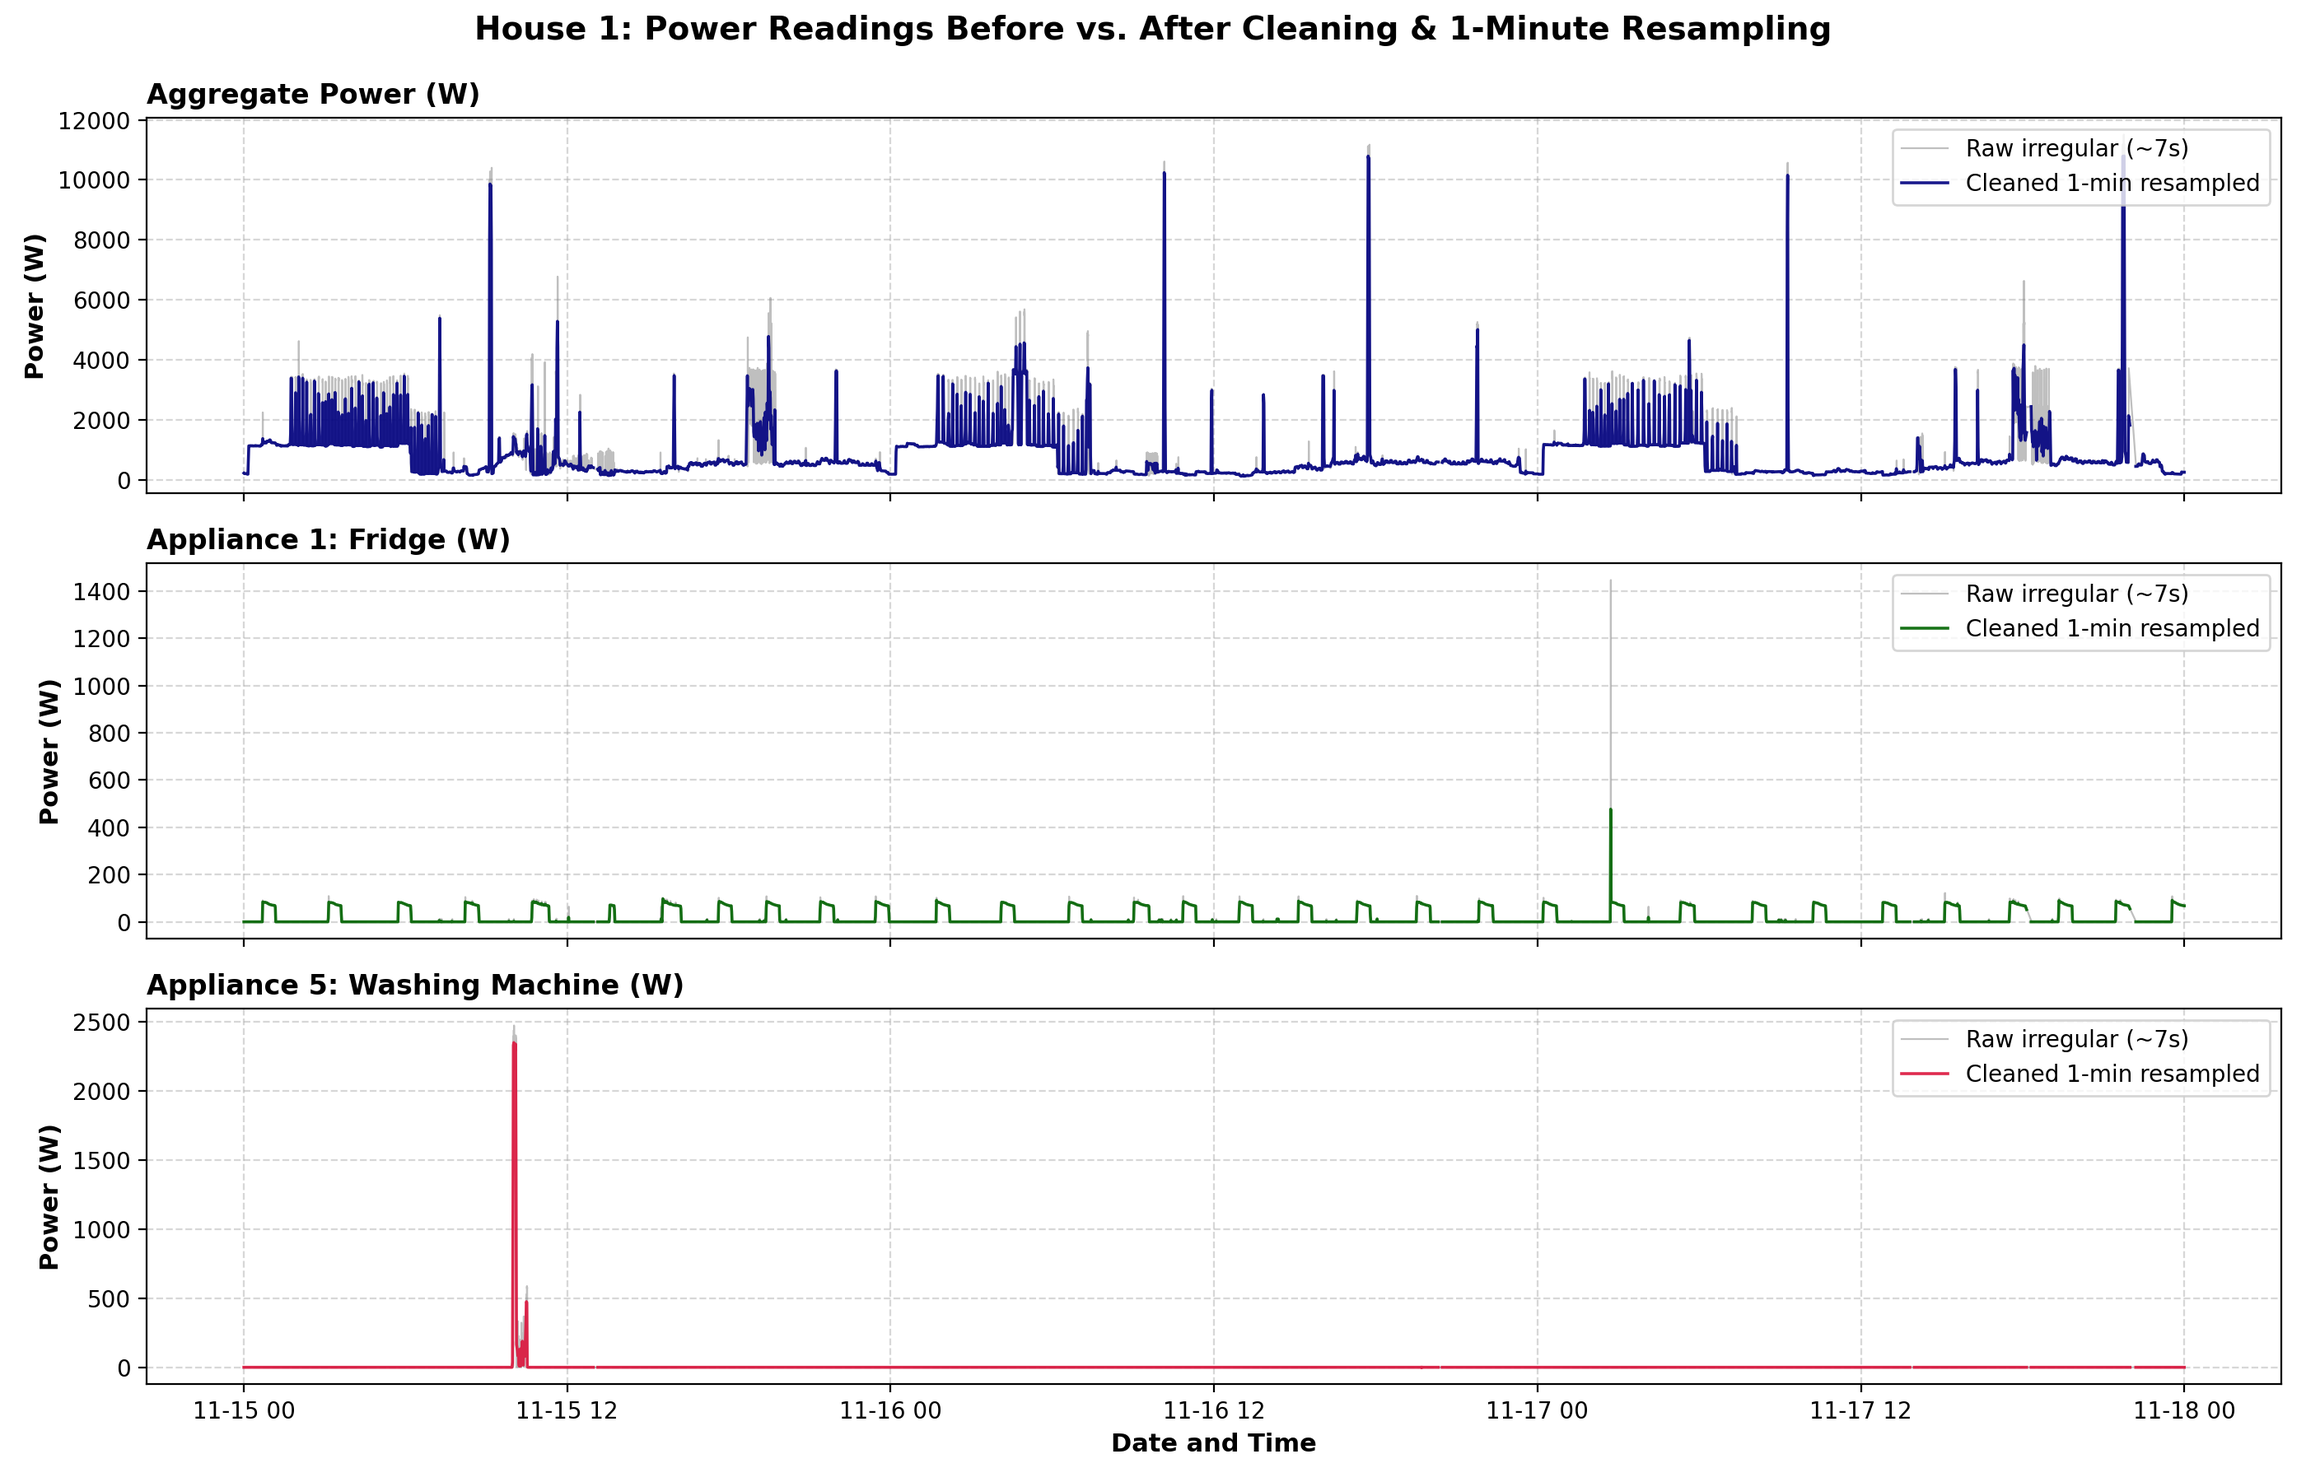
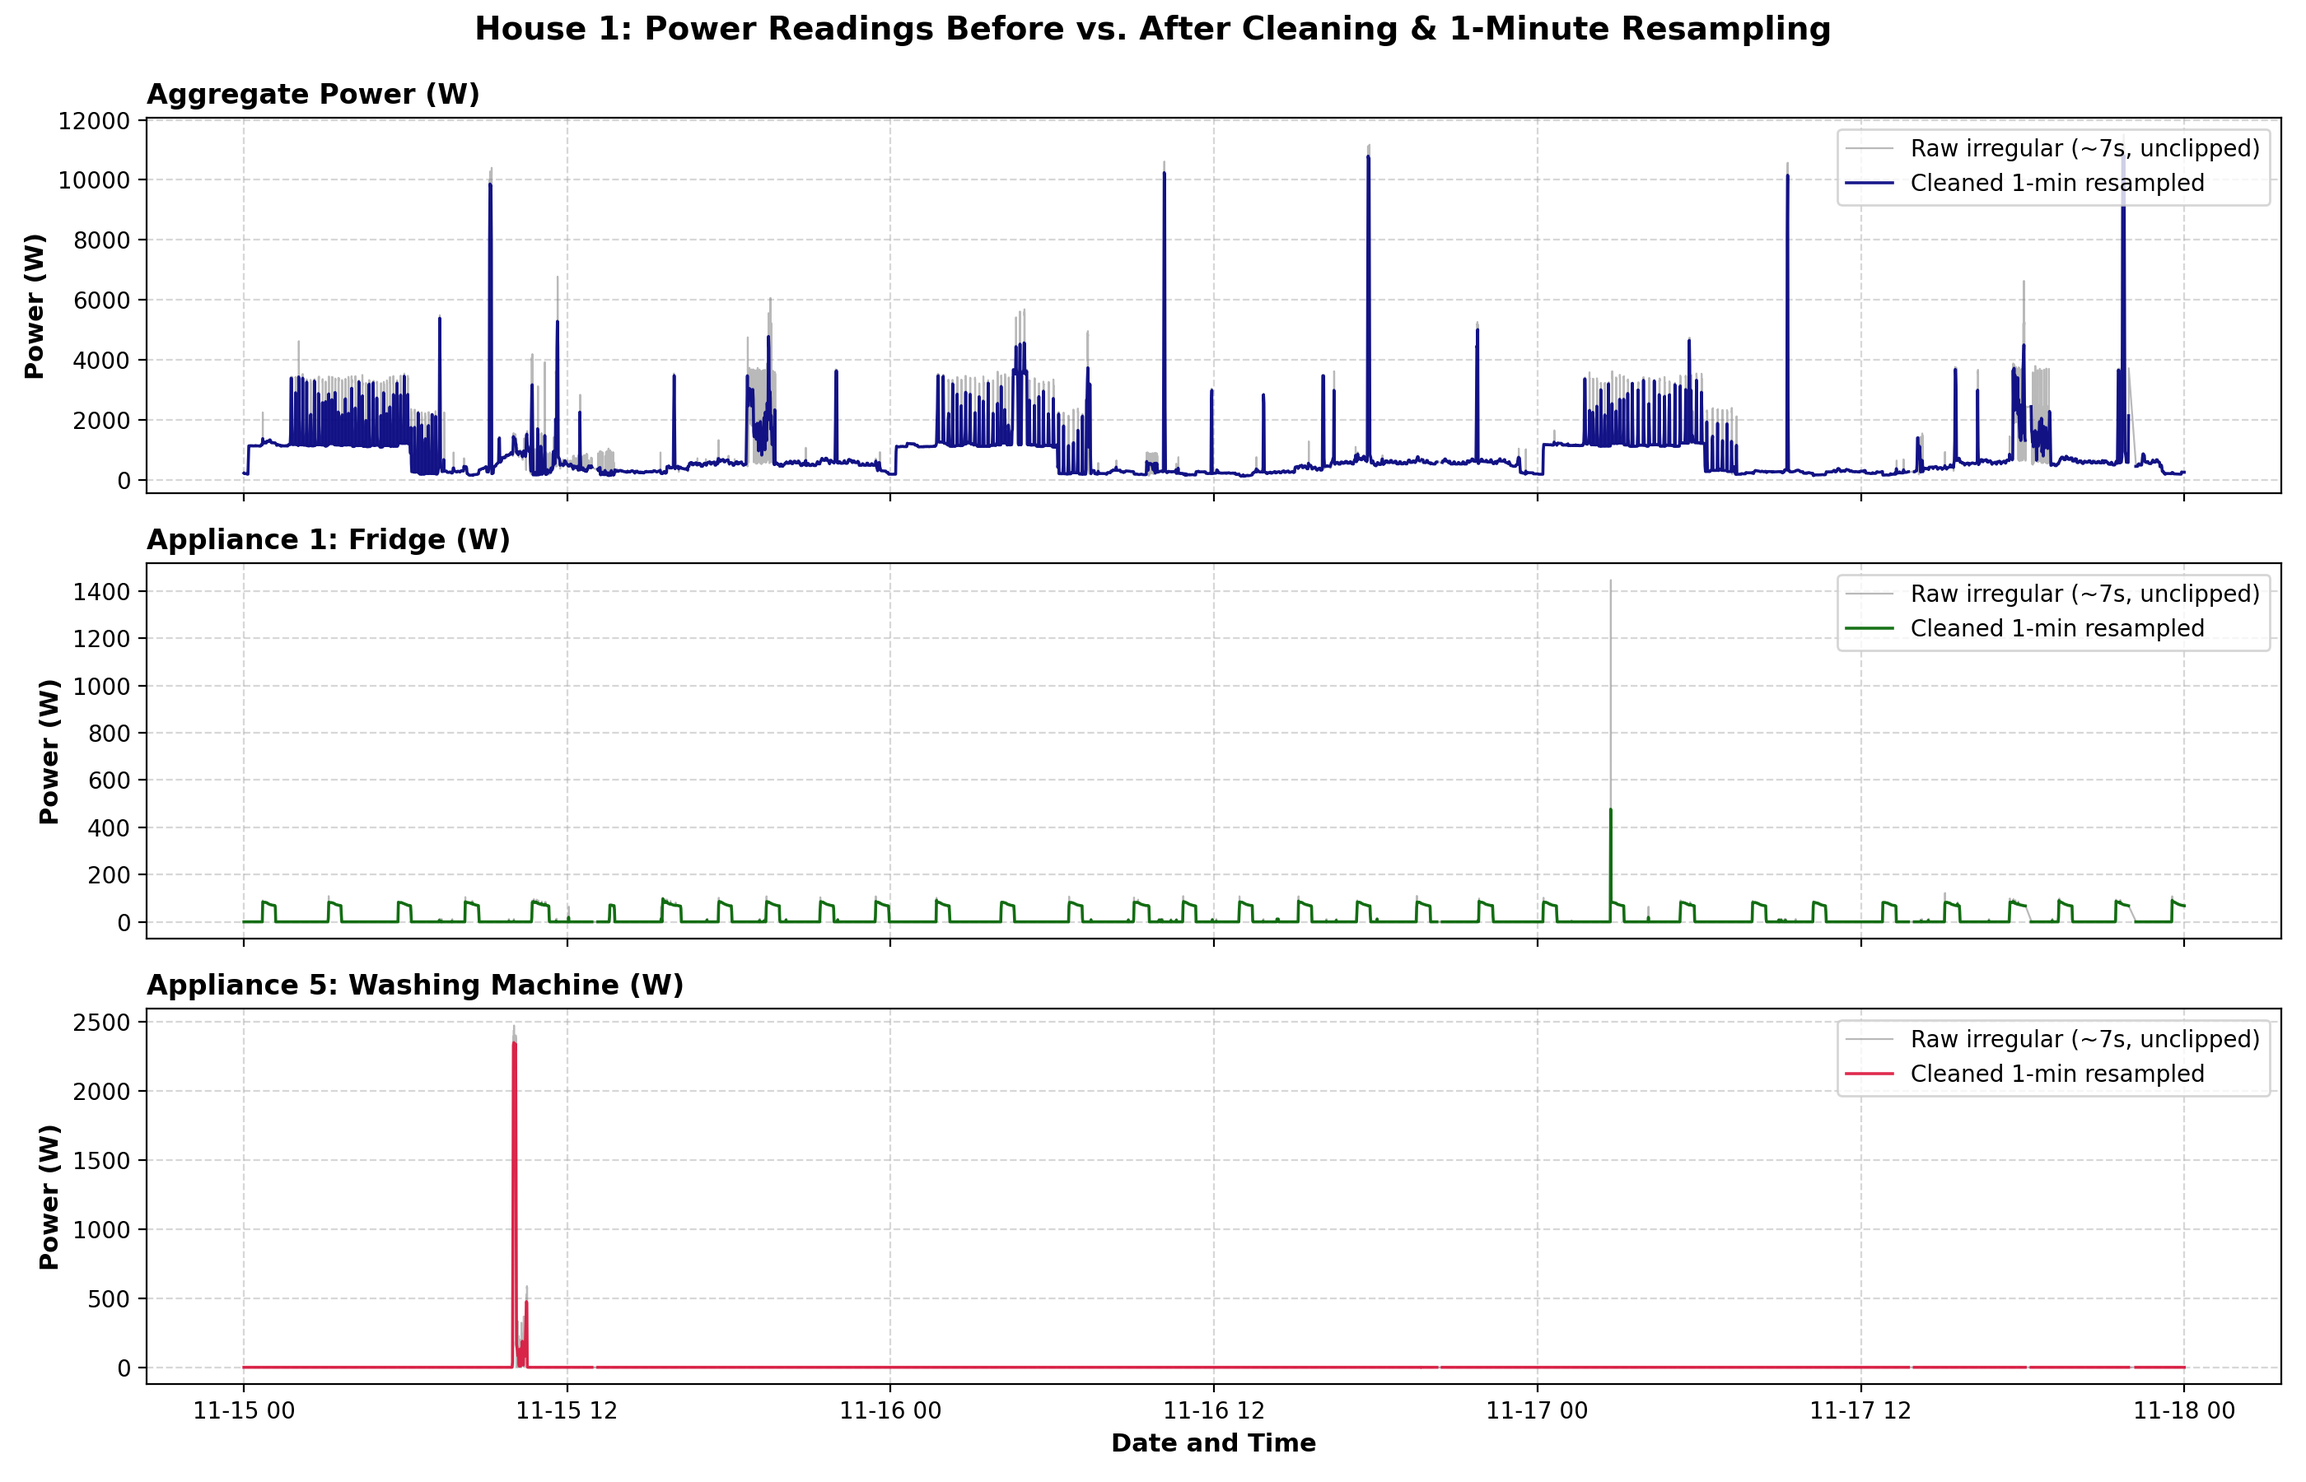
fix(s1): apply robust gap filling, unclipped raw plot, and overlap audit

Changed region(s): [[0.8079, 0.3733, 0.9943, 0.4356], [0.8079, 0.6844, 0.9632, 0.7467], [0.8079, 0.0933, 0.9943, 0.1244]]

diff --git a/src/data_cleaning.py b/src/data_cleaning.py
@@ -2,12 +2,14 @@
 Raw Data Cleaning Pipeline for REFIT House 1
 Implements:
 1. Merging Part1 and Part2 with priority to Part2 on overlap
-2. Sorting readings chronologically
-3. Deduplicating timestamps using stated rule (mean aggregation)
-4. Outlier / Sensor error handling (clipping impossible spikes)
-5. 1-minute uniform resampling
-6. Short gap interpolation (<= 3 min) and outage flagging (> 3 min)
-7. Before/After cleaning visualization
+2. Keeping a pristine unclipped copy for Before/After plotting
+3. Outlier / Sensor error handling (clipping impossible spikes on working copy)
+4. Sorting readings chronologically
+5. Deduplicating timestamps using stated rule (mean aggregation of concurrent seconds)
+6. 1-minute uniform resampling
+7. Short gap interpolation (runs <= 3 min only) and outage flagging (runs > 3 min)
+   via src.utils.fill_short_gaps and src.utils.compute_outage_mask
+8. Before/After cleaning visualization with TRULY RAW unclipped data
 """
 
 from pathlib import Path
@@ -27,12 +29,13 @@ from src.config import (
     POWER_UPPER_LIMIT_AGG,
     POWER_UPPER_LIMIT_IAM,
 )
+from src.utils import fill_short_gaps, compute_outage_mask
 
 # Set matplotlib cache to writable directory
 os.environ["MPLCONFIGDIR"] = str(OUTPUT_DIR / ".cache")
 
 
-def clean_raw_house1(sample_days: int = None):
+def clean_raw_house1():
     print("\n--- Starting Raw House 1 Cleaning Pipeline ---")
     
     # 1. Load Part1 and Part2
@@ -51,81 +54,86 @@ def clean_raw_house1(sample_days: int = None):
     df1 = df1.dropna(subset=['DateTime'])
     df2 = df2.dropna(subset=['DateTime'])
     
-    # In overlap period (June 27 2014 to Oct 1 2014), Part2 has NaNs for missing sensors, which is cleaner
+    # Transition point: use Part1 before Part2 start, Part2 thereafter
     transition_date = df2['DateTime'].min()
     print(f"Transition point: Using Part1 before {transition_date}, and Part2 from {transition_date} onwards.")
-    df_raw = pd.concat([df1[df1['DateTime'] < transition_date], df2], ignore_index=True)
+    df_raw_merged = pd.concat([df1[df1['DateTime'] < transition_date], df2], ignore_index=True)
     del df1, df2
     
-    # 2. Sort chronologically
-    print("Sorting readings chronologically...")
-    df_raw = df_raw.sort_values(by='DateTime').reset_index(drop=True)
+    # Sort chronologically
+    df_raw_merged = df_raw_merged.sort_values(by='DateTime').reset_index(drop=True)
+    raw_len = len(df_raw_merged)
     
-    # Power columns
     channels = ['Aggregate'] + [f'Appliance{i}' for i in range(1, 10)]
+    
+    # Keep an UNFILTERED pristine copy for the "Before" plot slice
+    plot_start = pd.Timestamp("2013-11-15 00:00:00")
+    plot_end = pd.Timestamp("2013-11-18 00:00:00")
+    raw_window_unfiltered = df_raw_merged[
+        (df_raw_merged['DateTime'] >= plot_start) & (df_raw_merged['DateTime'] < plot_end)
+    ].copy()
+    
+    # Work on a copy for cleaning
+    df_cleaned = df_raw_merged.copy()
     for ch in channels:
-        df_raw[ch] = pd.to_numeric(df_raw[ch], errors='coerce')
+        df_cleaned[ch] = pd.to_numeric(df_cleaned[ch], errors='coerce')
         # Negative values are impossible for power sensors -> set to NaN
-        df_raw.loc[df_raw[ch] < 0, ch] = np.nan
-        # Extreme sensor overflow / electrical impossibility
+        df_cleaned.loc[df_cleaned[ch] < 0, ch] = np.nan
+        # Extreme sensor overflow / electrical impossibility -> set to NaN
         limit = POWER_UPPER_LIMIT_AGG if ch == 'Aggregate' else POWER_UPPER_LIMIT_IAM
-        df_raw.loc[df_raw[ch] > limit, ch] = np.nan
+        df_cleaned.loc[df_cleaned[ch] > limit, ch] = np.nan
 
-    # 3. Deduplicate timestamps using stated rule:
+    # Deduplicate timestamps using stated rule:
     # Stated Rule: Average concurrent readings within the exact same second to preserve energy balance
     print("Deduplicating timestamps by averaging concurrent readings per second...")
-    raw_len = len(df_raw)
-    df_dedup = df_raw.groupby('DateTime')[channels].mean()
+    df_dedup = df_cleaned.groupby('DateTime')[channels].mean()
     dedup_len = len(df_dedup)
-    print(f"Deduplication reduced {raw_len:,} rows to {dedup_len:,} unique 1-second timestamps ({raw_len - dedup_len:,} duplicates removed).")
+    print(f"Deduplication: {raw_len:,} rows -> {dedup_len:,} unique seconds ({raw_len - dedup_len:,} duplicates resolved).")
     
-    # 4. Resample to 1-minute intervals
+    # Resample to 1-minute intervals
     print(f"Resampling to uniform {RESAMPLE_INTERVAL} grid...")
     df_1min = df_dedup.resample(RESAMPLE_INTERVAL).mean()
-    
-    # 5. Handle missing gaps:
-    # Short gaps (<= 3 mins): linearly interpolate
-    # Outages (> 3 mins): flag as outage, leave as NaN
-    print("Applying gap policy: linear interpolation for <= 3 min gaps, outage flagging for > 3 min...")
-    df_interpolated = df_1min.interpolate(method='time', limit=MAX_INTERPOLATION_MINUTES)
-    
-    # Boolean mask for outages (unfilled gaps)
-    is_outage = df_interpolated['Aggregate'].isna()
-    outage_count = is_outage.sum()
     total_minutes = len(df_1min)
+    
+    # Apply robust gap policy:
+    # 1. Compute outage mask from ORIGINAL resampled series (runs > 3 min)
+    # 2. Fill ONLY runs <= 3 min using linear interpolation
+    # 3. Runs > 3 min strictly remain NaN
+    print("Applying gap policy: fill only runs <= 3 min; leave runs > 3 min as NaN...")
+    outage_mask = compute_outage_mask(df_1min['Aggregate'], max_gap=MAX_INTERPOLATION_MINUTES)
+    
+    for ch in channels:
+        df_1min[ch] = fill_short_gaps(df_1min[ch], max_gap=MAX_INTERPOLATION_MINUTES)
+        
+    df_1min['is_outage'] = outage_mask
+    outage_count = int(outage_mask.sum())
+    
     print(f"Total 1-minute intervals: {total_minutes:,}")
     print(f"Flagged outages (> {MAX_INTERPOLATION_MINUTES} min): {outage_count:,} minutes ({outage_count/total_minutes*100:.2f}%)")
     
-    # Save a slice or full parquet for efficiency
+    # Save cleaned 1-minute parquet
     out_parquet = OUTPUT_DIR / "House1_cleaned_1min.parquet"
-    df_interpolated['is_outage'] = is_outage
-    df_interpolated.to_parquet(out_parquet)
+    df_1min.to_parquet(out_parquet)
     print(f"Cleaned 1-minute data saved to {out_parquet}")
     
-    # 6. Generate Before vs After Plot
-    # Select a representative 3-day window containing active use, short gap, and transition
-    plot_start = pd.Timestamp("2013-11-15 00:00:00")
-    plot_end = pd.Timestamp("2013-11-18 00:00:00")
-    
-    raw_window = df_raw[(df_raw['DateTime'] >= plot_start) & (df_raw['DateTime'] < plot_end)]
-    cleaned_window = df_interpolated.loc[plot_start:plot_end]
-    
-    plot_before_after(raw_window, cleaned_window)
+    # Plot Before (TRULY RAW UNFILTERED) vs After (Cleaned 1-minute)
+    cleaned_window = df_1min.loc[plot_start:plot_end]
+    plot_before_after(raw_window_unfiltered, cleaned_window)
     
     return {
         "raw_total_rows": raw_len,
         "dedup_rows": dedup_len,
         "total_1min_intervals": total_minutes,
-        "outage_minutes": int(outage_count),
-        "outage_pct": float(outage_count / total_minutes * 100),
+        "outage_minutes": outage_count,
+        "outage_pct": round(float(outage_count / total_minutes * 100.0), 2),
     }
 
 
 def plot_before_after(raw_df, clean_df):
-    print("Generating Before vs After cleaning visualization...")
+    print("Generating Before vs After cleaning visualization (using TRULY RAW unclipped data for 'Before')...")
     fig, axes = plt.subplots(3, 1, figsize=(14, 9), sharex=True)
     
-    # Channels to plot: Aggregate, Appliance1 (Fridge), Appliance5 (Washing Machine)
+    # Channels: Aggregate, Appliance1 (Fridge), Appliance5 (Washing Machine)
     plot_configs = [
         ("Aggregate", "Aggregate Power (W)", "navy"),
         ("Appliance1", "Appliance 1: Fridge (W)", "darkgreen"),
@@ -135,17 +143,18 @@ def plot_before_after(raw_df, clean_df):
     for idx, (col, title, color) in enumerate(plot_configs):
         ax = axes[idx]
         
-        # Raw data (scatter / thin line showing irregular intervals)
+        # Raw data (truly raw irregular readings)
+        raw_vals = pd.to_numeric(raw_df[col], errors='coerce')
         ax.plot(
             raw_df['DateTime'],
-            raw_df[col],
+            raw_vals,
             color='gray',
-            alpha=0.5,
+            alpha=0.55,
             linewidth=0.8,
-            label='Raw irregular (~7s)',
+            label='Raw irregular (~7s, unclipped)',
         )
         
-        # Cleaned data (uniform 1-minute resampled)
+        # Cleaned data (uniform 1-minute resampled, short gaps filled)
         ax.plot(
             clean_df.index,
             clean_df[col],

diff --git a/src/data_inspection.py b/src/data_inspection.py
@@ -6,6 +6,8 @@ Performs:
 - Sampling interval distribution & irregular interval analysis
 - Missing readings and gap analysis
 - Extreme and impossible values (negative power, clipping, spikes)
+- Time vs. Unix consistency audit (detecting daylight savings / timezone offsets)
+- Part 1 vs. Part 2 overlap audit
 """
 
 import json
@@ -20,7 +22,6 @@ def inspect_raw_file(file_path: Path, max_rows: int = None):
     print(f"Inspecting: {file_path.name}")
     print(f"=======================================================")
     
-    # Read CSV
     df = pd.read_csv(file_path, nrows=max_rows)
     total_rows = len(df)
     print(f"Total raw rows read: {total_rows:,}")
@@ -33,6 +34,13 @@ def inspect_raw_file(file_path: Path, max_rows: int = None):
     diff_unix = df['Unix'].diff()
     backwards_steps = int((diff_unix < 0).sum())
     zero_diff_steps = int((diff_unix == 0).sum())
+    
+    # Time vs. Unix consistency check
+    # Unix timestamp converted to UTC datetime
+    unix_dt = pd.to_datetime(df['Unix'], unit='s')
+    # Difference in seconds between Time column and Unix UTC time
+    time_unix_diff_seconds = (df['DateTime'] - unix_dt).dt.total_seconds()
+    unique_offsets_hours = sorted([round(x / 3600.0, 2) for x in time_unix_diff_seconds.dropna().unique()])
     
     # 2. Duplicate Timestamps
     dup_unix_count = int(df.duplicated(subset=['Unix']).sum())
@@ -50,10 +58,6 @@ def inspect_raw_file(file_path: Path, max_rows: int = None):
         "max_gap_hours": float(valid_dt.max() / 3600.0) if len(valid_dt) > 0 else 0.0,
     }
     
-    # Categorize gaps:
-    # dt <= 10s: normal polling
-    # 10s < dt <= 180s: short delay (can interpolate)
-    # dt > 180s (3 min): outage / significant gap (must flag)
     normal_intervals = int((valid_dt <= 10).sum())
     short_gap_intervals = int(((valid_dt > 10) & (valid_dt <= 180)).sum())
     outage_intervals = int((valid_dt > 180).sum())
@@ -68,7 +72,6 @@ def inspect_raw_file(file_path: Path, max_rows: int = None):
         zero_count = int((series == 0).sum())
         max_val = float(series.max()) if not series.empty else 0.0
         
-        # Outlier count: Aggregate > 15000 W or IAM > 4000 W
         threshold = 15000.0 if col == 'Aggregate' else 4000.0
         outliers = int((series > threshold).sum())
         
@@ -89,6 +92,7 @@ def inspect_raw_file(file_path: Path, max_rows: int = None):
         "backwards_steps": backwards_steps,
         "duplicate_timestamps": dup_unix_count,
         "zero_time_steps": zero_diff_steps,
+        "time_vs_unix_offset_hours": unique_offsets_hours,
         "dt_stats": dt_stats,
         "gap_breakdown": {
             "normal_intervals_le_10s": normal_intervals,
@@ -99,12 +103,39 @@ def inspect_raw_file(file_path: Path, max_rows: int = None):
     }
     
     print(f"Date range: {results['start_time']} to {results['end_time']}")
+    print(f"Time vs. Unix offset (hours): {unique_offsets_hours}")
     print(f"Duplicate timestamps: {dup_unix_count:,} ({dup_unix_count/total_rows*100:.2f}%)")
     print(f"Backwards timestamp steps: {backwards_steps:,}")
     print(f"Sampling interval (median): {dt_stats['median_seconds']:.1f}s, p99: {dt_stats['p99_seconds']:.1f}s, Max gap: {dt_stats['max_gap_hours']:.1f} hours")
     print(f"Gap breakdown: {normal_intervals:,} normal (<=10s), {short_gap_intervals:,} short gaps, {outage_intervals:,} outages (>3m)")
     
     return results
+
+
+def check_overlap_consistency():
+    """
+    Audits the overlap period between Part 1 and Part 2.
+    """
+    p1_path = RAW_DATA_DIR / "RAW_House1_Part1.csv"
+    p2_path = RAW_DATA_DIR / "RAW_House1_Part2.csv"
+    if not p1_path.exists() or not p2_path.exists():
+        return {}
+        
+    print("\nAuditing Part 1 vs Part 2 Overlap Period...")
+    df1 = pd.read_csv(p1_path, usecols=['Time', 'Unix', 'Aggregate', 'Appliance5'])
+    df2 = pd.read_csv(p2_path, usecols=['Time', 'Unix', 'Aggregate', 'Appliance5'])
+    
+    p1_end = df1['Time'].iloc[-1]
+    p2_start = df2['Time'].iloc[0]
+    overlap_info = {
+        "part1_end": str(p1_end),
+        "part2_start": str(p2_start),
+        "overlap_start": str(p2_start),
+        "overlap_end": str(p1_end),
+        "overlap_note": "Part 1 records missing sub-meters as 0, Part 2 records missing sub-meters as NaN. Transitioning at Part 2 start preserves explicit missingness metadata."
+    }
+    print(f"Overlap detected: from {p2_start} to {p1_end}")
+    return overlap_info
 
 
 def run_inspection():
@@ -114,6 +145,7 @@ def run_inspection():
         if file_path.exists():
             summary[part] = inspect_raw_file(file_path)
             
+    summary["overlap_audit"] = check_overlap_consistency()
     out_file = OUTPUT_DIR / "raw_inspection_summary.json"
     with open(out_file, "w") as f:
         json.dump(summary, f, indent=2)
